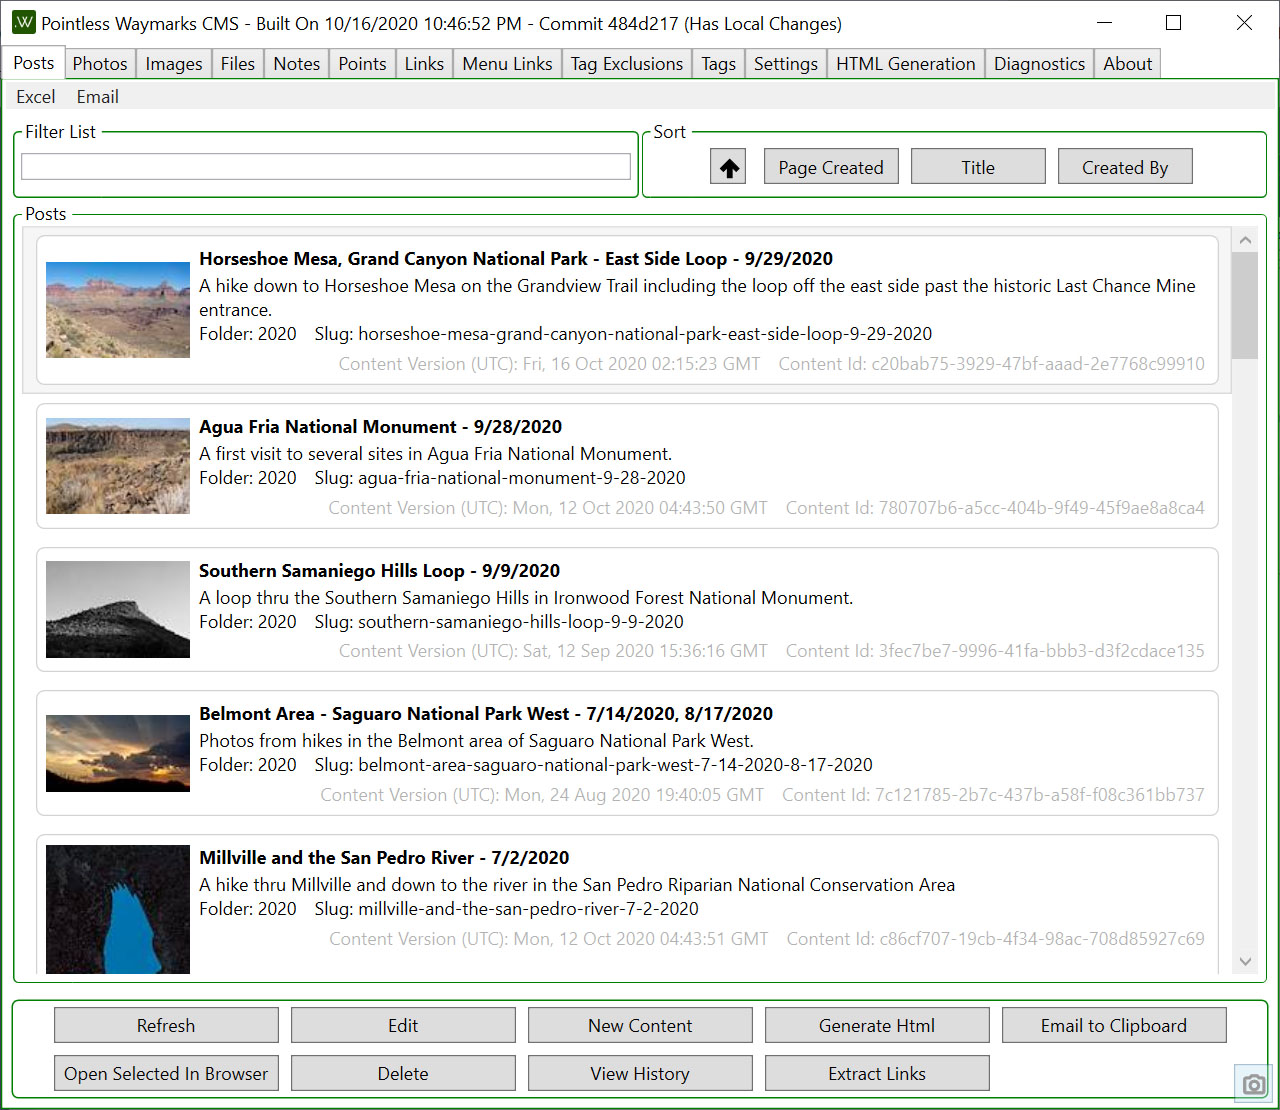
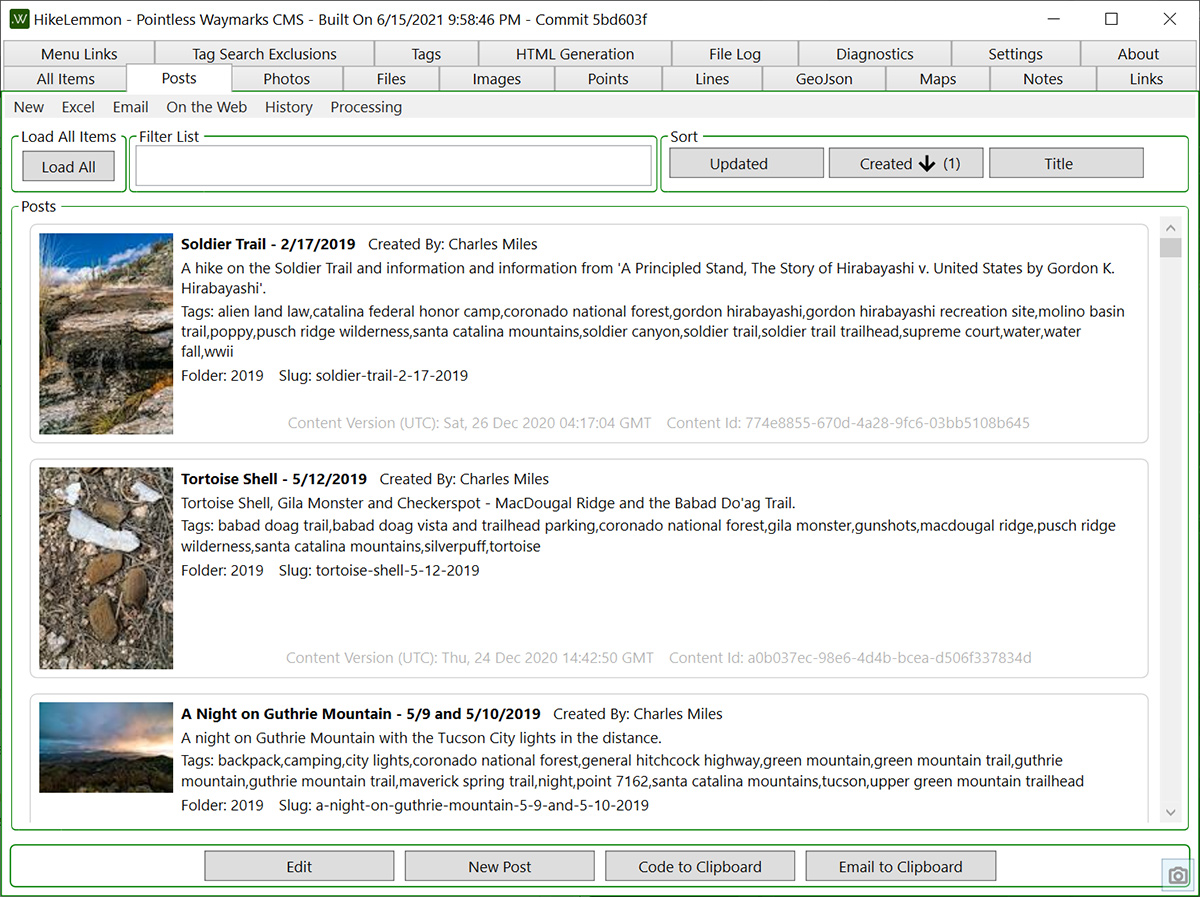
Fix typo in Photo List Item when there is no aperture.
Bug Fix control click sorting logic.
Update Screen Shots.

diff --git a/PointlessWaymarks.CmsWpfControls/WpfControlsResourceDictionary.xaml b/PointlessWaymarks.CmsWpfControls/WpfControlsResourceDictionary.xaml
@@ -652,7 +652,7 @@
                                         MouseAction="LeftClick" />
                                 </Button.InputBindings>
                             </Button>
-                            <Button Content="{Binding DbEntry.Aperture, Converter={StaticResource StringDefault}, ConverterParameter='(No Aperture Model)'}" ToolTip="Aperture - click to search for other photos taken with this Aperture">
+                            <Button Content="{Binding DbEntry.Aperture, Converter={StaticResource StringDefault}, ConverterParameter='(No Aperture)'}" ToolTip="Aperture - click to search for other photos taken with this Aperture">
                                 <Button.InputBindings>
                                     <MouseBinding
                                         Command="{Binding ItemActions.ApertureSearchCommand}"

diff --git a/PointlessWaymarks.CmsWpfControls/ColumnSort/ColumnSortControlContext.cs b/PointlessWaymarks.CmsWpfControls/ColumnSort/ColumnSortControlContext.cs
@@ -49,7 +49,7 @@ namespace PointlessWaymarks.CmsWpfControls.ColumnSort
         private void AddItem(ColumnSortControlSortItem sortItem)
         {
             var currentSortCount = Items.Count(x => x.Order > 0);
-            if (Items.Any(x => x.Order > 0) || currentSortCount == 1 && sortItem.Order > 0)
+            if (!Items.Any(x => x.Order > 0) || currentSortCount == 1 && sortItem.Order > 0)
             {
                 ToggleItem(sortItem);
                 return;
